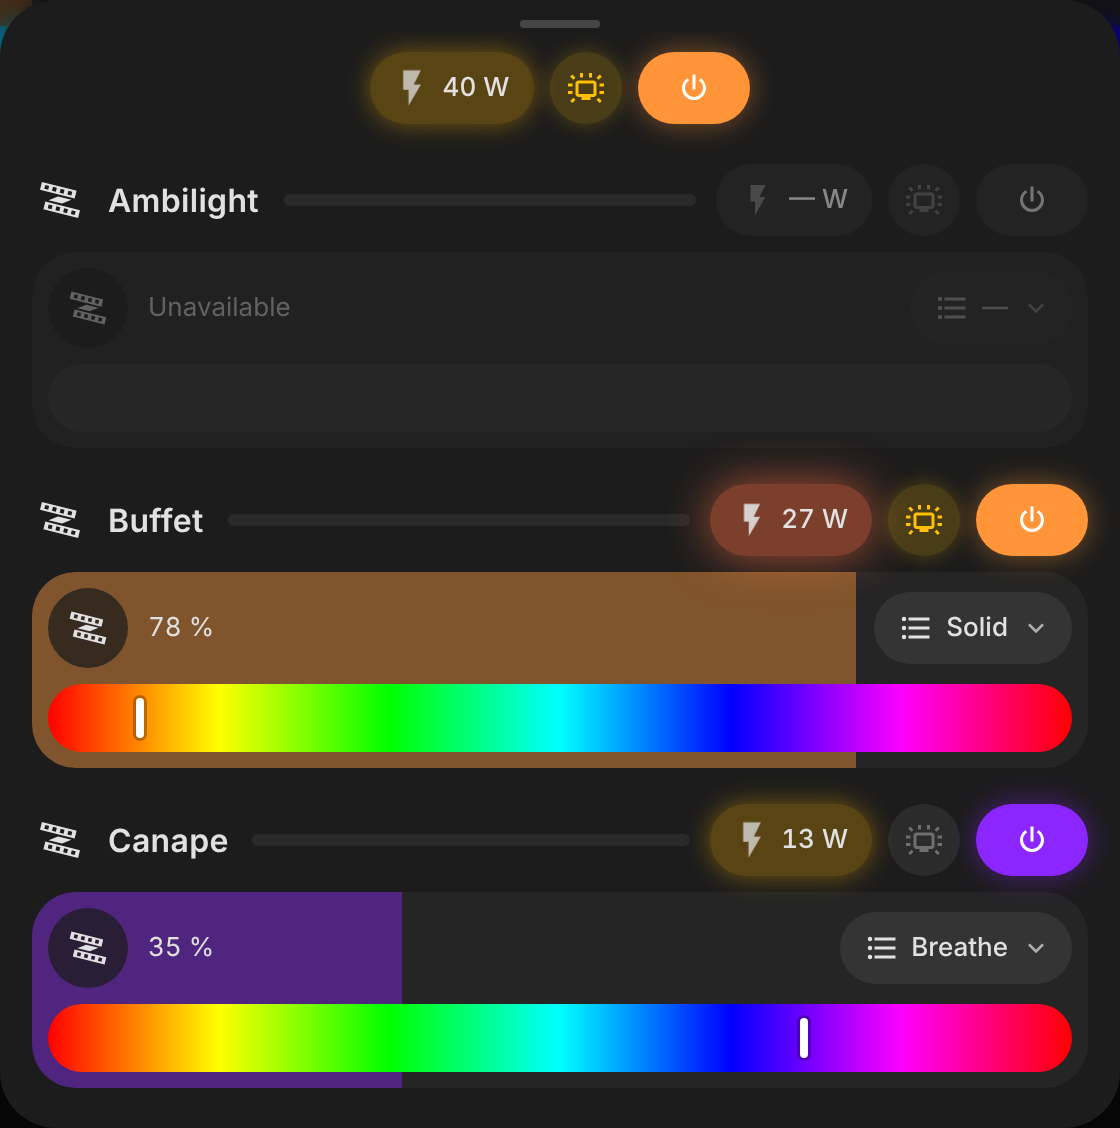
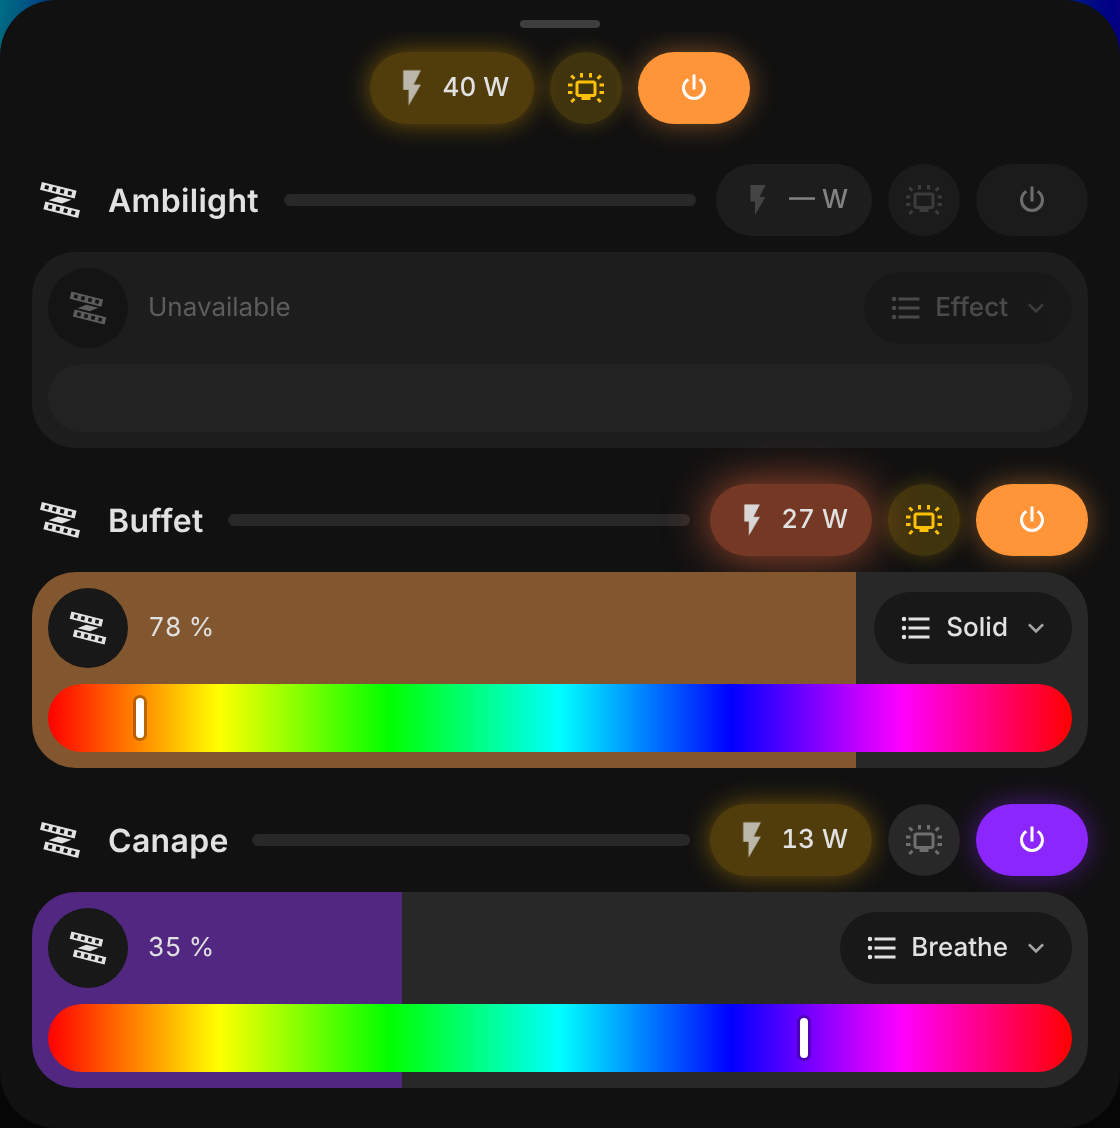
fix(led-group): drop the card frame and keep colors vivid
Header floats on the dashboard and the tile is the card, using three
theme-derived surface levels like Bubble Card. The color bar is no longer
dimmed when the light is off.

Claude-Session: https://claude.ai/code/session_01VhUV5ZRj9F2qgzEtHA8ezN

diff --git a/src/components/vivid-select-chip.ts b/src/components/vivid-select-chip.ts
@@ -15,6 +15,7 @@ export class VividSelectChip extends LitElement {
     value: {},
     options: { attribute: false },
     tooltip: {},
+    placeholder: {},
     disabled: { type: Boolean, reflect: true },
   };
 
@@ -22,6 +23,7 @@ export class VividSelectChip extends LitElement {
   declare value?: string;
   declare options: string[];
   declare tooltip?: string;
+  declare placeholder?: string;
   declare disabled: boolean;
 
   constructor() {
@@ -48,7 +50,7 @@ export class VividSelectChip extends LitElement {
         height: var(--vivid-chip-height);
         padding: 0 10px 0 12px;
         border-radius: calc(var(--vivid-chip-height) / 2);
-        background: var(--vivid-chip-surface);
+        background: var(--vivid-chip-context, var(--vivid-layer-1));
         color: var(--primary-text-color);
         font-size: 13px;
         font-weight: 500;
@@ -106,7 +108,7 @@ export class VividSelectChip extends LitElement {
     const known = this.value !== undefined && this.options.includes(this.value);
     return html`<label class="chip" @pointerdown=${this.stop} title=${ifDefined(this.tooltip)}>
       ${this.icon ? html`<ha-icon .icon=${this.icon}></ha-icon>` : nothing}
-      <span class="value">${this.value ?? '—'}</span>
+      <span class="value">${this.value ?? this.placeholder ?? '—'}</span>
       <ha-icon class="chevron" .icon=${'mdi:chevron-down'}></ha-icon>
       <select
         aria-label=${ifDefined(this.tooltip)}

diff --git a/src/components/vivid-light-tile.ts b/src/components/vivid-light-tile.ts
@@ -78,7 +78,8 @@ export class VividLightTile extends LitElement {
         overflow: hidden;
         isolation: isolate;
         border-radius: var(--vivid-tile-radius);
-        background: var(--vivid-surface);
+        background: var(--vivid-layer-1);
+        --vivid-chip-context: var(--vivid-layer-2);
         padding: 8px;
         display: flex;
         flex-direction: column;
@@ -121,11 +122,7 @@ export class VividLightTile extends LitElement {
         width: 40px;
         height: 40px;
         border-radius: 50%;
-        background: color-mix(
-          in srgb,
-          var(--ha-card-background, var(--card-background-color, #1c1c1c)) 72%,
-          transparent
-        );
+        background: var(--vivid-layer-2);
         color: var(--vivid-muted);
         transition: color 0.4s ease;
       }
@@ -404,6 +401,7 @@ export class VividLightTile extends LitElement {
                 .value=${attributes.effect ?? undefined}
                 .options=${effects}
                 .tooltip=${localize(this.hass, 'effect')}
+                .placeholder=${localize(this.hass, 'effect')}
                 ?disabled=${!available}
                 @value-changed=${this.onEffectChanged}
               ></vivid-select-chip>`

diff --git a/src/components/shared-styles.ts b/src/components/shared-styles.ts
@@ -5,11 +5,21 @@ import { css } from 'lit';
  * Home Assistant theme, e.g. `vivid-card-radius: 20px`.
  */
 export const tokens = css`
+  /*
+   * Badges take their background from --vivid-chip-context, which containers set
+   * for their children (a tile sets it to --vivid-layer-2). It is never declared
+   * on :host, so it inherits through shadow roots.
+   */
   :host {
     --vivid-rgb-text: var(--rgb-primary-text-color, 255, 255, 255);
-    --vivid-surface: rgba(var(--vivid-rgb-text), 0.05);
-    --vivid-chip-surface: rgba(var(--vivid-rgb-text), 0.08);
-    --vivid-line-color: rgba(var(--vivid-rgb-text), 0.07);
+    /* Three surface levels: the page, what sits on it (tiles, badges), what sits in a tile. */
+    --vivid-layer-0: var(--primary-background-color, #111111);
+    --vivid-layer-1: var(
+      --vivid-surface-color,
+      var(--secondary-background-color, var(--card-background-color, #282828))
+    );
+    --vivid-layer-2: color-mix(in srgb, var(--vivid-layer-0) 70%, var(--vivid-layer-1));
+    --vivid-line-color: var(--vivid-layer-1);
     --vivid-muted: var(--secondary-text-color, rgba(255, 255, 255, 0.6));
     --vivid-chip-height: 36px;
     --vivid-tile-radius: var(--vivid-card-tile-radius, 22px);

diff --git a/src/components/vivid-dialog.ts b/src/components/vivid-dialog.ts
@@ -75,7 +75,7 @@ export class VividDialog extends LitElement {
         display: flex;
         flex-direction: column;
         border-radius: var(--vivid-card-radius, 28px);
-        background: var(--ha-card-background, var(--card-background-color, #1c1c1c));
+        background: var(--vivid-layer-0);
         box-shadow: 0 24px 60px rgba(0, 0, 0, 0.45);
         opacity: 0;
         transform: translate(-50%, calc(-50% + 24px)) scale(0.98);
@@ -117,7 +117,7 @@ export class VividDialog extends LitElement {
         clip-path: none;
         padding: 6px 10px;
         border-radius: 12px;
-        background: var(--vivid-chip-surface);
+        background: var(--vivid-layer-1);
       }
       .body {
         overflow-y: auto;

diff --git a/dev/index.html b/dev/index.html
@@ -10,6 +10,7 @@
         --primary-background-color: #111111;
         --card-background-color: #1c1c1c;
         --ha-card-background: #1c1c1c;
+        --secondary-background-color: #282828;
         --primary-text-color: #e1e1e1;
         --secondary-text-color: #9b9b9b;
         --disabled-text-color: #6f6f6f;
@@ -22,6 +23,7 @@
         --primary-background-color: #fafafa;
         --card-background-color: #ffffff;
         --ha-card-background: #ffffff;
+        --secondary-background-color: #e5e5e5;
         --primary-text-color: #212121;
         --secondary-text-color: #727272;
         --disabled-text-color: #bdbdbd;

diff --git a/src/cards/led-group/vivid-led-group.ts b/src/cards/led-group/vivid-led-group.ts
@@ -72,14 +72,18 @@ export class VividLedGroup extends LitElement {
       ha-card {
         height: 100%;
         box-sizing: border-box;
-        border-radius: var(--vivid-card-radius, 28px);
-        overflow: hidden;
+        background: none;
+        border: none;
+        box-shadow: none;
+        overflow: visible;
       }
       .card {
         display: flex;
         flex-direction: column;
-        gap: 10px;
-        padding: 12px;
+        gap: 8px;
+      }
+      vivid-light-header {
+        padding: 0 4px;
       }
       .warning {
         padding: 16px;

diff --git a/src/components/vivid-chip.ts b/src/components/vivid-chip.ts
@@ -58,7 +58,7 @@ export class VividChip extends LitElement {
         min-width: var(--vivid-chip-height);
         padding: 0 12px;
         border-radius: calc(var(--vivid-chip-height) / 2);
-        background: var(--chip-bg, var(--vivid-chip-surface));
+        background: var(--chip-bg, var(--vivid-chip-context, var(--vivid-layer-1)));
         box-shadow: var(--chip-shadow, none);
         color: var(--primary-text-color);
         font: inherit;

diff --git a/src/components/vivid-hue-slider.ts b/src/components/vivid-hue-slider.ts
@@ -63,9 +63,6 @@ export class VividHueSlider extends LitElement {
         outline: 2px solid var(--vivid-focus);
         outline-offset: 2px;
       }
-      :host([dimmed]) .track {
-        filter: saturate(0.45) brightness(0.62);
-      }
       :host([disabled]) .track {
         cursor: default;
         background: rgba(var(--vivid-rgb-text), 0.06);

diff --git a/CHANGELOG.md b/CHANGELOG.md
@@ -4,6 +4,15 @@ All notable changes to this project are documented here. The format follows
 [Keep a Changelog](https://keepachangelog.com/en/1.1.0/) and the project uses
 [Semantic Versioning](https://semver.org/).
 
+## [0.1.1] - 2026-10-04
+
+### Changed
+
+- The LED group card has no frame anymore: the header sits on the dashboard
+  and the tile is the card, with three surface levels taken from the theme.
+- The color bar stays fully saturated when the light is off.
+- The effect picker shows "Effect" when no effect is active.
+
 ## [0.1.0] - 2026-10-04
 
 ### Added
@@ -19,4 +28,5 @@ All notable changes to this project are documented here. The format follows
 - Preview page with a simulated Home Assistant, unit tests, CI and release
   workflows.
 
+[0.1.1]: https://github.com/Florian-BARRE/vivid-cards/releases/tag/v0.1.1
 [0.1.0]: https://github.com/Florian-BARRE/vivid-cards/releases/tag/v0.1.0
